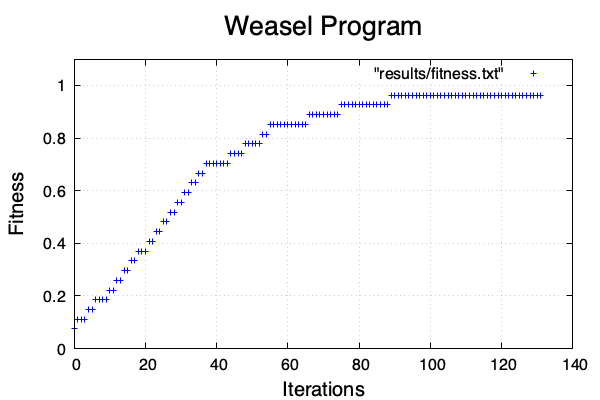
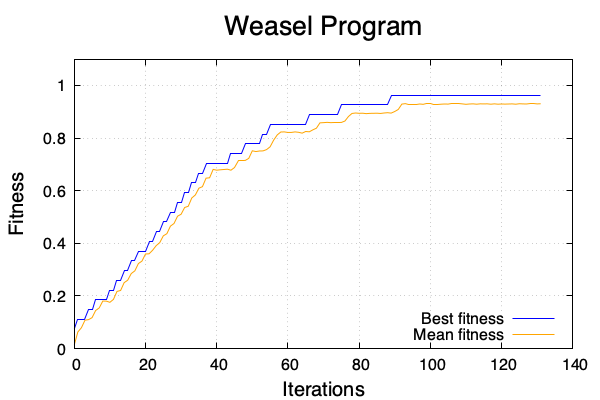
Add mean fitness

diff --git a/src/main.c b/src/main.c
@@ -27,10 +27,11 @@ int main(int argc, char **argv){
 
     int iteration = 0;
     int *best_indices;
-    float best_fitness;
+    float best_fitness, mean_fitness;
 
     while (iteration < num_iterations){
         best_fitness = calculate_fitness(population, sequence);
+        mean_fitness = calculate_mean_fitness(population);
         best_indices = argsort(population);
         mutation(best_indices, population, sequence);
 
@@ -43,7 +44,7 @@ int main(int argc, char **argv){
             printf("[Iteration: %3d]  ", iteration);
             print_best_solution(iteration, population, sequence, best_indices);
         }
-       fprintf(fp, "%d %f\n", iteration, best_fitness);
+       fprintf(fp, "%d %f %f\n", iteration, best_fitness, mean_fitness);
        iteration += 1;
     }
     return 0;

diff --git a/include/weasel_program.h b/include/weasel_program.h
@@ -17,6 +17,7 @@ Sequence *create_sequence(char *text);
 void print_sequence(Sequence *sequence);
 Population *initialize_population(const Sequence *sequence, int num_individuals, int num_selected);
 float calculate_fitness(const Population *population, const Sequence *sequence);
+float calculate_mean_fitness(const Population *population);
 int cmp(const void *a, const void *b);
 int *argsort(const Population *population);
 void mutation(int *best_indices, const Population *population, const Sequence *sequence);

diff --git a/src/weasel_program.c b/src/weasel_program.c
@@ -55,6 +55,14 @@ float calculate_fitness(const Population *population, const Sequence *sequence){
     return best_fitness;
 }
 
+float calculate_mean_fitness(const Population *population){
+    float mean_fitness = 0.0;
+    for (int i=0; i < population->num_individuals; i++){
+        mean_fitness += population->fitness[i];
+    }
+    return mean_fitness / population->num_individuals;
+}
+
 int cmp(const void *a, const void *b){
     return (*(int *)b - *(int *)a);
 }
